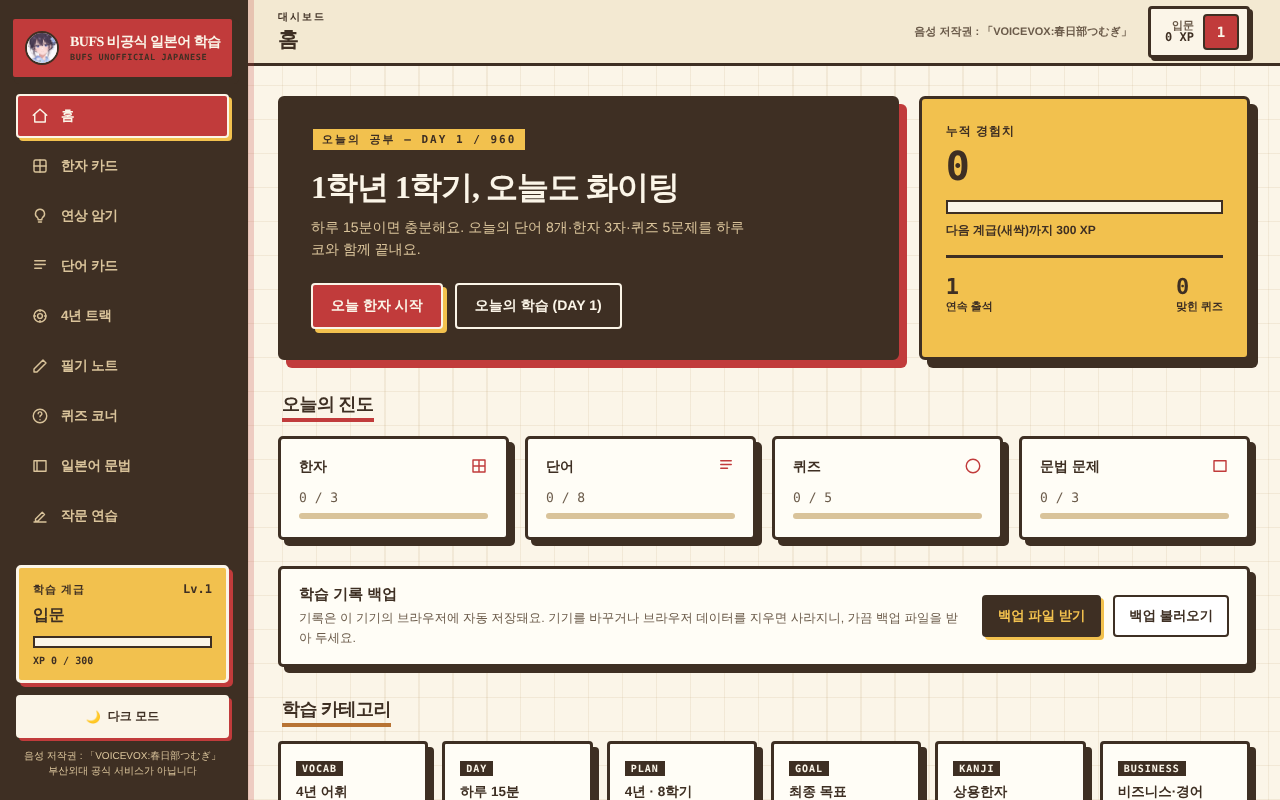
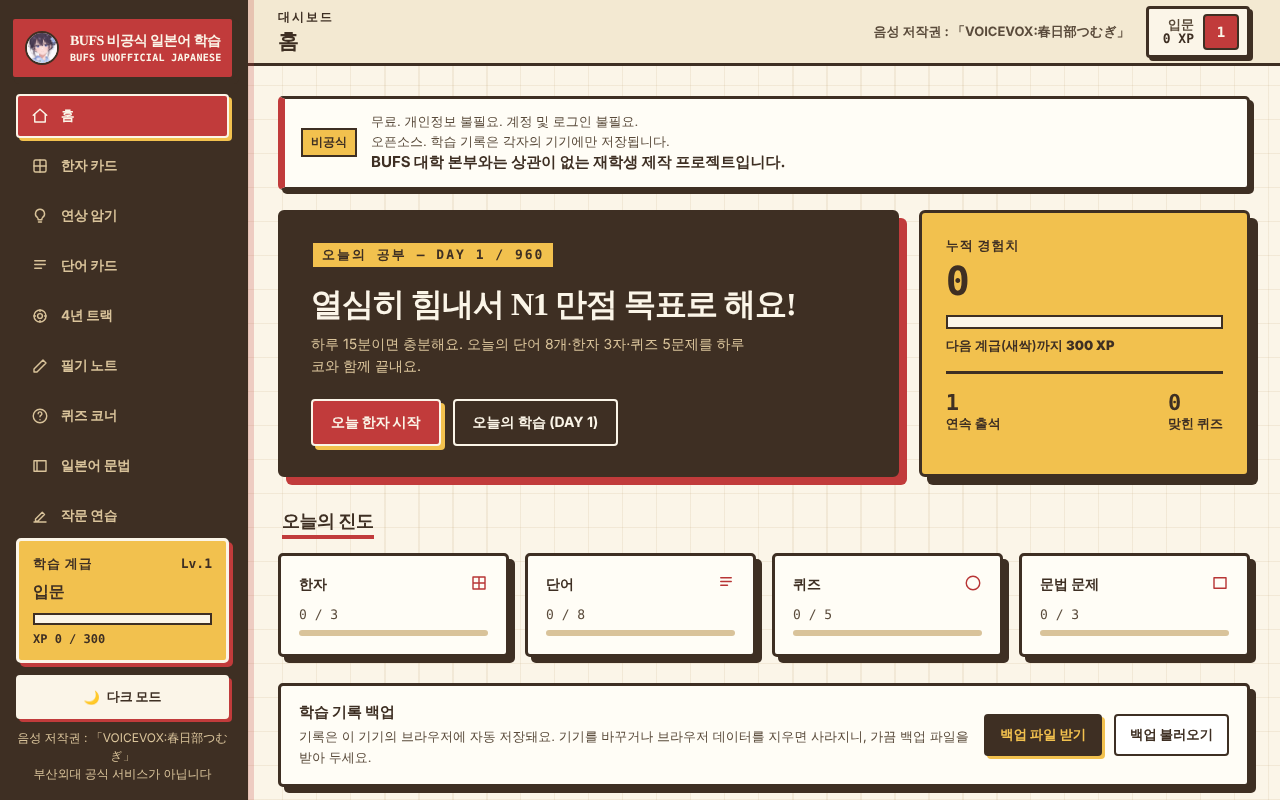
홈 화면·README에 안내 3줄 추가, README 정리
- 홈의 「비공식」 안내 카드 문구를 무료·개인정보·계정 불필요 / 오픈소스·기록은 각자 기기에만 / 학교 본부와 무관 3줄로 교체(폰에서 단어 단위 줄바꿈)
- README 맨 위에 같은 3줄, 계급·경험치 상세 표·데이터 재생성 명령·폴더 구성 표·내부 개발 규칙 등 중복·개발자용 내용 삭제(ARCHITECTURE로 링크, 음성 생성 명령은 ARCHITECTURE로 이동)
- README 스크린샷을 현재 화면으로 교체, 낡은 퀴즈 스크린샷 삭제
- 홈 안내 3줄 표시 테스트 추가, 골든 기준 갱신(홈 4곳)

diff --git a/index.html b/index.html
@@ -68,7 +68,8 @@
     border-left:7px solid var(--red); border-radius:5px; box-shadow:4px 4px 0 var(--shadow); }
   .hh-unofficial-badge { flex:none; background:var(--yellow); color:#3E2F23; border:2px solid #3E2F23;
     padding:4px 8px; font-size:12px; font-weight:900; white-space:nowrap; }
-  .hh-unofficial-copy { min-width:0; line-height:1.5; }
+  .hh-unofficial-copy { min-width:0; line-height:1.5; word-break:keep-all; overflow-wrap:break-word; }
+  @media (max-width: 768px) { .hh-unofficial-notice { flex-direction:column; align-items:flex-start; gap:8px; } }
   .hh-unofficial-copy strong { display:block; font-size:15px; }
   .hh-unofficial-copy span { display:block; color:var(--ink2); font-size:13px; }
   ::-webkit-scrollbar { width: 14px; height: 14px; }
@@ -222,8 +223,9 @@
           <div class="hh-unofficial-notice" role="note" aria-label="사이트 운영 안내">
             <span class="hh-unofficial-badge">비공식</span>
             <div class="hh-unofficial-copy">
-              <strong>부산외국어대학교 공식 서비스가 아닙니다.</strong>
-              <span>재학생이 만든 일본어 학습 사이트입니다.</span>
+              <span>무료. 개인정보 불필요. 계정 및 로그인 불필요.</span>
+              <span>오픈소스. 학습 기록은 각자의 기기에만 저장됩니다.</span>
+              <strong>BUFS 대학 본부와는 상관이 없는 재학생 제작 프로젝트입니다.</strong>
             </div>
           </div>
           <sc-if value="{{ showInstall }}" hint-placeholder-val="">

diff --git a/README.md b/README.md
@@ -1,9 +1,11 @@
 # BUFS 비공식 일본어 학습
 
-부산외국어대학교 일본어융합학부 학생이 **4년 동안 하루 15분씩** 공부해 **JLPT N1 만점**을 노리도록 만든 무료 일본어 학습 웹앱입니다.
-마스코트는 오리지널 캐릭터 **하루코(春子)**, 발음은 **VOICEVOX:春日部つむぎ** 목소리입니다.
+> 무료. 개인정보 불필요. 계정 및 로그인 불필요.
+> 오픈소스. 학습 기록은 각자의 기기에만 저장됩니다.
+> BUFS 대학 본부와는 상관이 없는 재학생 제작 프로젝트입니다.
 
-> 부산외국어대학교의 공식 서비스가 아닙니다. 재학생이 후배들을 위해 만든 비공식 앱입니다.
+부산외국어대학교 일본어융합학부 학생이 **4년 동안 하루 15분씩** 공부해 **JLPT N1 만점**을 노리도록 만든 일본어 학습 웹앱입니다.
+마스코트는 오리지널 캐릭터 **하루코(春子)**, 발음은 **VOICEVOX:春日部つむぎ** 목소리입니다.
 
 ![홈 화면](screenshots/home.png)
 
@@ -13,7 +15,7 @@
 - **4년 = DAY 1~960**: 1년을 240학습일(주 5일 × 48주)로 계산
 - **브라우저에서 바로, 앱처럼 설치도**: PC · 아이패드 · 아이폰 · 안드로이드 ([설치 방법](#앱으로-설치하기))
 - **오프라인 사용**: 처음 한 번 접속하면 화면과 학습 데이터가 기기에 저장되어 인터넷이 없어도 열립니다.
-- **서버·AI 없음**: 정적 파일만으로 동작하고, 운영 비용은 무료 호스팅 안에서 0원입니다. 외부 CDN도 쓰지 않습니다.
+- **서버·AI 없음**: 정적 파일만으로 동작하고, 외부 CDN·추적 도구도 쓰지 않습니다.
 
 ## 4년 커리큘럼
 
@@ -28,40 +30,27 @@
 
 | 메뉴 | 내용 |
 |---|---|
-| 홈 | 오늘의 DAY와 학년·학기, 오늘의 진도, 경험치·계급, 학습 기록 백업 |
+| 홈 | 오늘의 DAY, 오늘의 진도, 경험치·계급, 학습 기록 백업 |
 | 한자 카드 | 상용한자 2,136자(N5~N1), 음·훈·뜻·예시 |
 | 연상 암기 | 한자마다 한국어 연상법(부품 → 이야기 → 뜻·음), 셀프 채점 복습 |
 | 단어 카드 | 어휘 7,680개, JLPT 등급·학년으로 보기, 검색 |
 | 4년 트랙 | 학년별 어휘 진도, 「인지 가능」(経済→경제처럼 한국 한자음과 같은 말) / 「암기 필요」 구분 |
 | 필기 노트 | 한자·어휘 따라쓰기. 애플펜슬 필압 지원, 펜을 쓰면 손바닥 입력 무시, 펜이 없으면 손가락 필기 |
-| 퀴즈 코너 | 하루 5문제(그날 단어 중 외워야 하는 4개 + 한자 1자), 4년 4,552문항. N5~N1 등급별 퀴즈 |
-| 일본어 문법 | N5~N1 227단원, 단원마다 설명·규칙·예문 2개 이상·확인 문제 3개 |
-| 작문 연습 | 1,230문항: 문장 일작 450 · 경어 120 · 비즈니스 80 · 주제 작문 80(일상·의견문·취업 ES) · 단어 조합 500. 모범 답안 비교와 규칙 점검으로 채점 |
-
-![퀴즈](screenshots/quiz.png)
+| 퀴즈 코너 | 하루 5문제, 4년 4,552문항. N5~N1 등급별 퀴즈 |
+| 일본어 문법 | N5~N1 227단원, 단원마다 설명·규칙·예문·확인 문제 |
+| 작문 연습 | 1,230문항(문장 일작·경어·비즈니스·주제 작문·단어 조합). 모범 답안 비교와 규칙 점검으로 채점 |
 
 <img src="screenshots/iphone.png" alt="아이폰 화면" width="280">
 
 ## 학습 기록
 
-- 경험치 · 연속 출석 · 맞힌 퀴즈 · 카드 확인 목록 · 오늘의 진도 · 퀴즈 DAY · 연상 암기 기록이 **각 기기의 브라우저**에 자동 저장됩니다(계정 없음).
+- 경험치 · 연속 출석 · 맞힌 퀴즈 · 오늘의 진도 등이 **각 기기의 브라우저**에 자동 저장됩니다. 서버로 전송하지 않습니다.
 - 기기를 바꾸거나 브라우저 데이터를 지우면 사라집니다. 홈의 **「백업 파일 받기 / 백업 불러오기」**로 옮기거나 보관하세요.
-- 경험치는 같은 카드·문제에서 **처음 한 번만** 받습니다.
-
-**계급** (하루 분량을 다 하면 약 45 XP)
-
-| 계급 | 필요 XP | 대략 시점 |
-|---|---|---|
-| 입문 · 새싹 · 초급 · 초급 숙련 | 0 · 300 · 1,200 · 3,000 | 시작 · 1주 · 4주 · 2달 |
-| 중급 입문 · 중급 · 중급 숙련 | 6,000 · 10,000 · 15,000 | 4.5달 · 1학년 말 · 1.4년 |
-| 상급 입문 · 상급 · 고급 · N1 도전 | 21,000 · 28,000 · 35,000 · 42,000 | 2학년 말 · 2.6년 · 3.2년 · 4학년 말 |
-
-**경험치**: 퀴즈 정답 +5 · 단어 조합 첫 채점 +8/+4/+2 · 일반 작문 첫 채점 +5/+2 · 연상 암기 「외웠어요」 +3 · 모범 답안 첫 보기 +3 · 한자 카드 +2 · 문법 확인 문제 +2 · 단어 카드 +1
+- 경험치는 같은 카드·문제에서 **처음 한 번만** 받고, 하루 분량을 다 하면 약 45 XP입니다. 계급은 입문부터 N1 도전까지 11단계입니다.
 
 ## 발음
 
-1. **미리 만든 음성 파일**(`audio/`, 10,136개): 단어 읽기 · 한자 음/훈 · 문법 예문 · 작문 모범 답안. 무료·무제한이고 모든 기기에서 같은 목소리로 나옵니다.
-2. **브라우저 일본어 음성**: 파일이 없는 문장에만 사용합니다(작문 연습의 직접 입력 문장 등).
+미리 만든 음성 파일(`audio/`, 10,136개)로 단어·한자·문법 예문·작문 모범 답안을 읽습니다. 무료·무제한이고 모든 기기에서 같은 목소리입니다. 파일이 없는 문장은 기기의 일본어 음성으로 대신 읽습니다.
 
 크레디트: **VOICEVOX:春日部つむぎ** — 앱의 모든 화면에 표시합니다.
 
@@ -73,9 +62,8 @@
 | 안드로이드 | Chrome에서 열기 → 홈 화면의 **「설치하기」** 카드(또는 메뉴 → 앱 설치) |
 | PC (Chrome · Edge) | 열기 → 주소창 오른쪽 설치 아이콘(또는 홈 화면의 **「설치하기」** 카드) |
 
-- 처음 한 번은 인터넷이 필요합니다. 이후 화면·학습 데이터는 오프라인에서도 열리고, **들어 본 음성**도 오프라인에서 재생됩니다(안 들어 본 문장은 기기의 일본어 음성으로 대신 읽습니다).
+- 처음 한 번은 인터넷이 필요합니다. 이후 화면·학습 데이터는 오프라인에서도 열리고, **들어 본 음성**도 오프라인에서 재생됩니다.
 - 아이폰의 홈 화면 앱은 Safari와 기록 저장 공간이 따로입니다. 기존 기록이 있으면 먼저 홈의 「백업 파일 받기」로 저장하고, 홈 화면 앱에서 「백업 불러오기」를 하세요.
-- 서비스 워커(`sw.js`)에 문제가 생기면 파일 머리말 주석의 방법(해제용 두 줄로 교체해 배포)으로 모든 기기에서 끌 수 있습니다.
 
 ## 실행
 
@@ -95,81 +83,14 @@ python3 -m http.server 8000
 | Vercel | 저장소를 Import(Framework: Other, 환경변수 없음). `.vercelignore`가 `tests/`를 제외 | `vercel.json` |
 | GitHub Pages · Netlify | 저장소 루트를 그대로 게시 | 두 파일을 읽지 않음 — 캐시·보안 헤더는 직접 설정 |
 
-- `_headers`와 `vercel.json`은 같은 내용을 유지합니다(`node tests/run.cjs security`가 일치 여부를, `node tests/run.cjs assets`가 업로드 목록에 필수 파일이 있는지를 검사).
-- 저장소 공개 파일에는 개인 계정 이름이 들어간 배포 주소(호스팅 업체가 주는 기본 주소 등)를 적지 않습니다(`assets` 검사가 막음).
-- **주소(도메인)가 바뀌면 브라우저 저장 공간도 달라져서 기존 학습 기록이 새 주소에 보이지 않습니다.** 옛 주소에서 홈의 「백업 파일 받기」로 저장한 뒤, 새 주소에서 「백업 불러오기」를 하세요.
-
-## 데이터 다시 만들기
-
-앱이 읽는 데이터는 `data/*.json`입니다. 원본부터 다시 만들 때는 아래 순서로 실행합니다(저장소 루트에서).
-
-```bash
-cd data && node lib/build.mjs && cd ..
-```
-
-```bash
-node scripts/build_curriculum.mjs
-```
-
-```bash
-node scripts/build_quiz_pool.mjs
-```
-
-```bash
-node scripts/build_writing.mjs
-```
-
-```bash
-node scripts/augment_grammar.mjs
-```
-
-```bash
-node scripts/check-writing-combo.mjs
-```
-
-| 스크립트 | 하는 일 |
-|---|---|
-| `data/lib/build.mjs` | 공개 사전(KANJIDIC2·JMdict)과 직접 쓴 한국어 데이터를 합쳐 전체 어휘·한자·문법·작문 생성 |
-| `scripts/build_curriculum.mjs` | 전체에서 4년 커리큘럼 어휘 7,680개·상용한자 2,136자를 골라 학년·DAY 부여 |
-| `scripts/build_quiz_pool.mjs` | 퀴즈 범위(하루 단어 4 + 한자 1) |
-| `scripts/build_writing.mjs` | 작문 1,230문항 선별 |
-| `scripts/augment_grammar.mjs` | 문법 보강(`data/lib/grammar_supplement.mjs`) 합치기 |
-| `scripts/check-writing-combo.mjs` | 단어 조합 문제 검사 |
-| `scripts/build_voice.mjs` | VOICEVOX 엔진으로 음성 파일 생성(이미 있는 파일은 건너뜀) |
-
-음성 파일 생성은 VOICEVOX 엔진이 필요합니다.
-
-```bash
-docker run -d -p 50021:50021 voicevox/voicevox_engine:cpu-0.26.1
-```
-
-```bash
-node scripts/build_voice.mjs
-```
-
-데이터 생성 기준과 스키마는 [`data/README.md`](data/README.md), 출처는 [`docs/data-sources.md`](docs/data-sources.md)에 있습니다.
+**주소(도메인)가 바뀌면 브라우저 저장 공간도 달라져서 기존 학습 기록이 새 주소에 보이지 않습니다.** 옛 주소에서 홈의 「백업 파일 받기」로 저장한 뒤, 새 주소에서 「백업 불러오기」를 하세요.
 
 ## 개발
 
-- 코드 구조(실행 흐름 · 화면별 코드 위치 · 저장 키 · 함정): [`docs/ARCHITECTURE.md`](docs/ARCHITECTURE.md)
+- 코드 구조(실행 흐름 · 화면별 코드 위치 · 저장 키 · 폴더 구성 · 데이터와 음성 다시 만들기): [`docs/ARCHITECTURE.md`](docs/ARCHITECTURE.md)
+- 데이터 생성 기준과 스키마: [`data/README.md`](data/README.md), 출처: [`docs/data-sources.md`](docs/data-sources.md)
 - 회귀 테스트(화면·오프라인·보안): `node tests/run.cjs` — 준비와 사용법은 [`tests/README.md`](tests/README.md)
-
-## 폴더 구성
-
-| 경로 | 내용 |
-|---|---|
-| `index.html` | 앱 본체(화면 템플릿 + 로직) |
-| `support.js` | 화면 렌더링 런타임 |
-| `vendor/` | React 18.3.1(외부 CDN 없이 자체 포함, MIT) |
-| `sw.js` · `pwa.js` · `manifest.webmanifest` · `icons/` | 앱 설치 · 오프라인 |
-| `tts.js` | 발음 재생(음성 파일 → 브라우저 음성) |
-| `combo_check.js` | 단어 조합 작문 규칙 점검 |
-| `audio/` | VOICEVOX:春日部つむぎ 음성 파일 |
-| `data/` | 학습 데이터(JSON)와 생성 코드 |
-| `scripts/` | 커리큘럼·퀴즈·작문·문법·음성 생성 스크립트 |
-| `tests/` | 회귀 테스트(배포에서 제외) |
-| `docs/` | 구조 안내 · 데이터 출처 |
-| `haruko.jpg` | 마스코트 하루코 |
+- 기여 방법: [`CONTRIBUTING.md`](CONTRIBUTING.md), 품질 기준표: [`docs/QUALITY.md`](docs/QUALITY.md)
 
 ## 라이선스
 

diff --git a/docs/ARCHITECTURE.md b/docs/ARCHITECTURE.md
@@ -121,6 +121,16 @@ scripts/check-writing-combo.mjs
 - 우선순위 1: 파일이 없으면 브라우저 SpeechSynthesis의 일본어 여성 음성(「Google 日本語」 우선).
 - 키 생성: 문장을 `toJaOnly`로 정리한 뒤 FNV-1a 32비트 해시. `scripts/build_voice.mjs`가 같은 함수를 재사용한다(VOICEVOX 엔진 필요).
 
+음성 파일을 다시 만들 때는 VOICEVOX 엔진을 띄운 뒤 스크립트를 실행한다(이미 있는 파일은 건너뛰므로 중단 후 다시 실행해도 된다).
+
+```bash
+docker run -d -p 50021:50021 voicevox/voicevox_engine:cpu-0.26.1
+```
+
+```bash
+node scripts/build_voice.mjs
+```
+
 ## 8. 오프라인·설치(서비스 워커)
 
 - 같은 출처의 화면·스크립트·데이터: 네트워크 우선(4초) → 실패하면 저장본. 배포하면 항상 최신이 반영된다.
